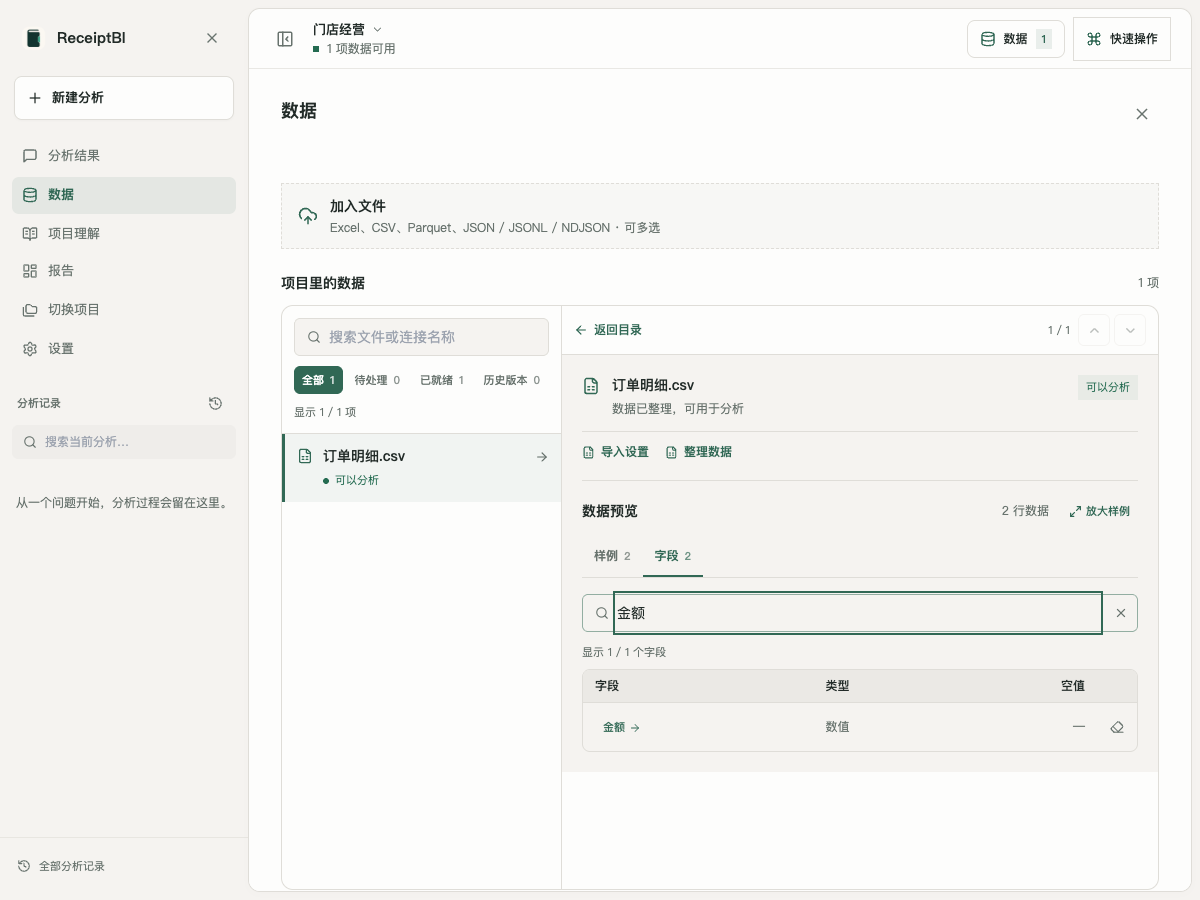
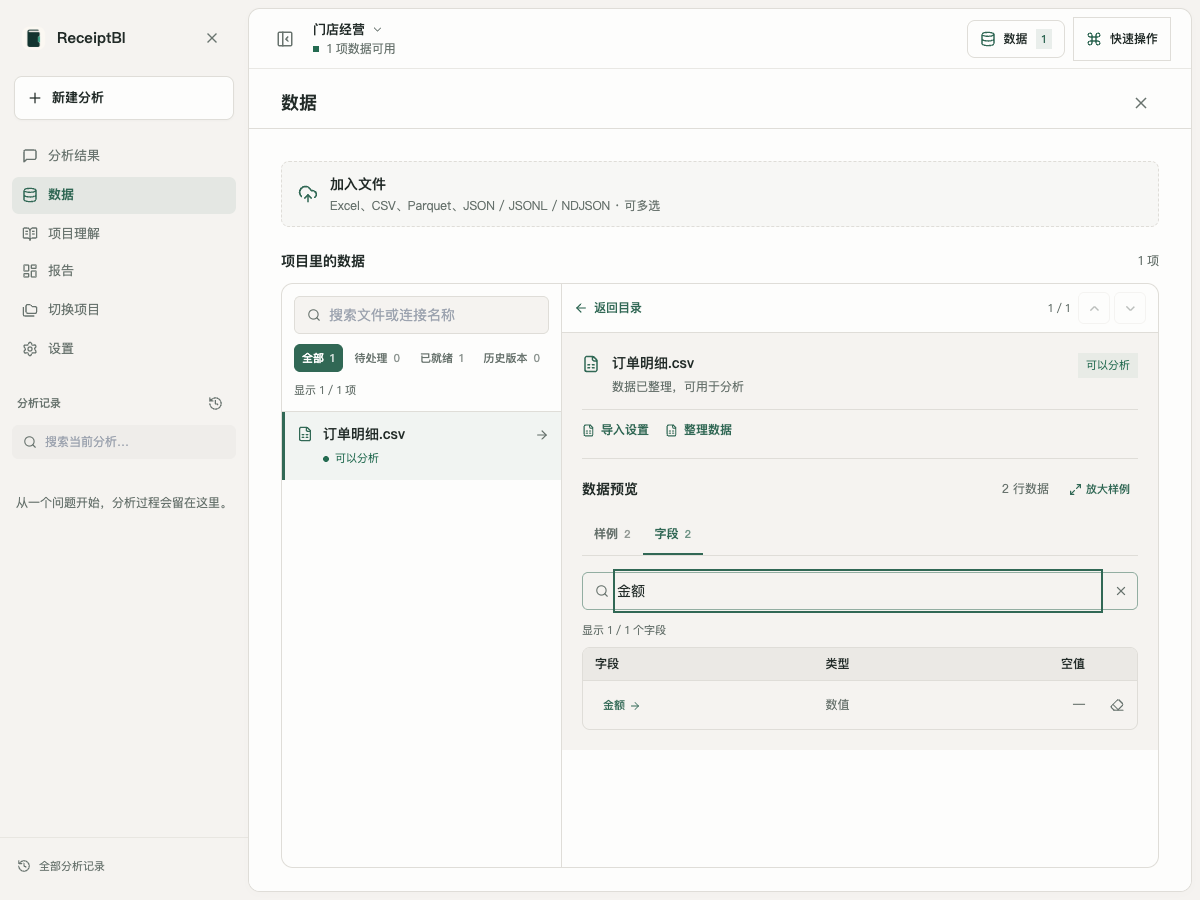
refactor(web): unify desktop data workspace shell

diff --git a/apps/web/src/components/chat/DataWorkspacePanel.tsx b/apps/web/src/components/chat/DataWorkspacePanel.tsx
@@ -1,6 +1,8 @@
 "use client";
 
-import { useRef, useState } from "react";
+import { useId, useRef, useState } from "react";
+import { Button } from "@/components/ui/button";
+import { TabList } from "@/components/ui/TabList";
 import { useLocale, useTranslations } from "next-intl";
 import Link from "next/link";
 import {
@@ -33,6 +35,7 @@ import { cn } from "@/lib/utils";
 import { VisualCleaningEditor } from "./VisualCleaningEditor";
 
 interface DataWorkspacePanelProps {
+  embedded?: boolean;
   open: boolean;
   onClose: () => void;
   onConfigureConnection: () => void;
@@ -99,6 +102,7 @@ export function getPendingUnderstandingCount(knowledge: SemanticEntry[]): number
 }
 
 export function DataWorkspacePanel({
+  embedded = false,
   open,
   onClose,
   onConfigureConnection,
@@ -108,6 +112,7 @@ export function DataWorkspacePanel({
   view,
   onViewChange,
 }: DataWorkspacePanelProps) {
+  const tabsId = useId();
   const locale = useLocale();
   const t = useTranslations("dataWorkspace");
   const fieldWordsRaw = t("fieldWords").split(",").map((s) => s.trim());
@@ -444,7 +449,7 @@ export function DataWorkspacePanel({
         className="border border-border bg-background/70 p-3"
         aria-label={t("understandingMapAria")}
       >
-        <div className="grid grid-cols-1 gap-2 sm:grid-cols-2">
+        <div className="grid grid-cols-2 gap-2">
           {sources.map((source) => (
             <div
               key={source.id}
@@ -667,65 +672,38 @@ export function DataWorkspacePanel({
     <>
     <aside
       className={cn(
-        "fixed inset-0 z-40 h-full w-full overflow-hidden border-l border-border bg-card shadow-2xl transition-transform duration-200 md:inset-y-0 md:left-auto md:right-0 md:w-[540px] md:max-w-[calc(100vw-2rem)]",
-        open ? "translate-x-0" : "pointer-events-none translate-x-full border-l-0"
+        embedded
+          ? "workbench-data-panel relative min-h-0 flex-1 overflow-hidden bg-card"
+          : "fixed inset-y-0 right-0 z-40 h-full w-[900px] overflow-hidden border-l border-border bg-card shadow-2xl transition-transform duration-200",
+        embedded ? (!open && "hidden") : open ? "translate-x-0" : "pointer-events-none translate-x-full border-l-0"
       )}
       aria-hidden={!open}
       inert={!open}
     >
       <div className="flex h-full w-full min-w-0 flex-col">
-        <div className="flex items-start justify-between px-5 py-5">
+        <div className="flex h-[60px] shrink-0 items-center justify-between border-b border-border px-5">
           <div>
             <h2 className="text-lg font-semibold text-foreground">
               {activeView === "sources" ? t("panelTitleSources") : t("panelTitleUnderstanding")}
             </h2>
           </div>
-          <button
+          <Button variant="ghost" size="icon"
             onClick={onClose}
-            className="rounded-lg p-2 text-muted-foreground hover:bg-muted hover:text-foreground"
             aria-label={t("closeWorkspaceAria")}
           >
             <X size={18} />
-          </button>
+          </Button>
         </div>
 
-        <div className="grid grid-cols-2 border-y border-border px-5" role="tablist">
-          <button
-            type="button"
-            role="tab"
-            aria-selected={activeView === "sources"}
-            onClick={() => changeView("sources")}
-            className={cn(
-              "border-b-2 px-1 py-3 text-sm font-medium transition-colors",
-              activeView === "sources"
-                ? "border-primary text-primary"
-                : "border-transparent text-muted-foreground hover:text-foreground"
-            )}
-          >
-            {t("dataSourcesTab")}
-          </button>
-          <button
-            type="button"
-            role="tab"
-            aria-selected={activeView === "understanding"}
-            onClick={() => changeView("understanding")}
-            className={cn(
-              "border-b-2 px-1 py-3 text-sm font-medium transition-colors",
-              activeView === "understanding"
-                ? "border-primary text-primary"
-                : "border-transparent text-muted-foreground hover:text-foreground"
-            )}
-          >
-            {t("understandingTab")}
-            {pendingKnowledgeCount > 0 && (
-              <span className="ml-1.5 bg-warning/15 px-1.5 py-0.5 text-[10px] text-warning">
-                {pendingKnowledgeCount}
-              </span>
-            )}
-          </button>
-        </div>
+        {!embedded && <TabList id={tabsId} label={t("panelTitleSources")} value={activeView} onChange={changeView}
+          className="px-5" items={[
+            { value: "sources", label: t("dataSourcesTab") },
+            { value: "understanding", label: <>{t("understandingTab")}{pendingKnowledgeCount > 0 &&
+              <span className="ml-1.5 rounded-md bg-warning/15 px-1.5 py-0.5 text-[10px] text-warning">{pendingKnowledgeCount}</span>}</> },
+          ]} />}
 
-        <div className="flex-1 space-y-6 overflow-y-auto px-5 py-5">
+        <div id={tabsId + "-panel"} role={embedded ? undefined : "tabpanel"}
+          aria-labelledby={embedded ? undefined : tabsId + "-" + activeView} className="min-h-0 flex-1 space-y-6 overflow-y-auto px-5 py-5">
           {activeView === "sources" ? (
             <>
           <input

diff --git a/apps/web/tests/data-workspace-panel.test.tsx b/apps/web/tests/data-workspace-panel.test.tsx
@@ -151,7 +151,7 @@ describe("DataWorkspacePanel project understanding", () => {
   });
 
 
-  it("uses one fixed overlay drawer width on desktop and full width on mobile", () => {
+  it("keeps a fixed desktop workspace while switching keyboard-accessible views", () => {
     const { container } = render(
       <NextIntlClientProvider locale="zh" messages={messages}>
         <DataWorkspacePanel
@@ -164,15 +164,19 @@ describe("DataWorkspacePanel project understanding", () => {
     );
 
     const panel = container.querySelector("aside");
-    expect(panel).toHaveClass("fixed", "inset-0", "w-full", "md:w-[540px]");
-    expect(panel).not.toHaveClass("md:relative", "md:w-[370px]", "md:w-[640px]");
+    expect(panel).toHaveClass("fixed", "inset-y-0", "right-0", "w-[900px]");
     expect(screen.queryByText("当前上下文")).not.toBeInTheDocument();
     expect(screen.queryByText("随时加入或替换；原件不会被修改。")).not.toBeInTheDocument();
     expect(screen.getByText("暂无数据")).toBeInTheDocument();
 
-    fireEvent.click(screen.getByRole("tab", { name: /项目理解/ }));
-    expect(panel).toHaveClass("md:w-[540px]");
-    expect(panel).not.toHaveClass("md:w-[640px]");
+    const sources = screen.getByRole("tab", { name: /数据来源/ });
+    const understanding = screen.getByRole("tab", { name: /项目理解/ });
+    sources.focus();
+    fireEvent.keyDown(sources, { key: "ArrowRight" });
+    expect(understanding).toHaveFocus();
+    expect(understanding).toHaveAttribute("aria-selected", "true");
+    expect(screen.getByRole("tabpanel")).toHaveAttribute("aria-labelledby", understanding.id);
+    expect(panel).toHaveClass("w-[900px]");
   });
 
   it("shows every source without inventing relationship connectors", () => {

diff --git a/docs/DESKTOP_UI.md b/docs/DESKTOP_UI.md
@@ -13,50 +13,50 @@
 - 已加载内容的水平页签复用 `TabList`，按 [WAI-ARIA Tabs](https://www.w3.org/WAI/ARIA/apg/patterns/tabs/) 自动激活，统一方向键、Home/End 和单一 Tab 停靠点；来源预览与文本替换已接入。
 - 页面入口、列表操作和编辑动作使用同一控件层；避免页面各自维护不同颜色、直角按钮和触控尺寸。表单的提交、错误及草稿合同不因外观修改而改变。
 
-## 实现与剩余范围
+## 已归并与待完成
 
-基础按钮、搜索、桌面导航、配置编辑面板及圆角变量已收拢。当前工作区的工作台和设置页已移除移动分支，设置的目录与 420px 编辑区固定并排；这些页面仍与之前的大批未归并改动交织，不能把局部组件提交视为全部页面完成。
+| 模块 | 已归并的桌面结构 | 尚未完成 |
+| --- | --- | --- |
+| 共享控件 | Button、SearchField、TabList、确认弹窗、主题与圆角变量 | 继续替换其他页面的重复控件 |
+| 工作台与设置 | 导航和配置编辑面板；工作区已有 248px 目录与 420px 编辑区 | 完整页面依赖、草稿会话及离开链路 |
+| 关于 | 统一标题栏、产品与版本双栏、三列项目链接 | 工作区里的版本检查行为 |
+| 项目理解 | 320px 详情区；工作区已改为 200px 目录与单一表格 | 页面历史、选择及保存恢复的整体归并 |
+| 数据来源 | 280px 目录、来源版本解析、字段与样例预览 | 上传、文件准备、来源替换及工作区完整行为 |
+| 数据工作区外框 | 60px 标题栏、共享页签；嵌入模式或 900px 桌面侧面板 | 外框提交不包含其余工作区新功能 |
+| 数据窗口 | 表格与 360px 记录详情并排；筛选、排序、列选择、精确值与导出 | 报告和聊天入口的整体归并 |
+| 整理编辑器 | 320px 操作目录、草稿历史、步骤选择、规则解析、预览与确认；样例和文本替换固定双栏 | 真实文件处理、后端文本替换及安装包联调 |
 
-关于页已改为固定桌面布局：统一标题栏、产品与版本双栏、三列项目链接。版本检查的行为改动独立于视觉提交，仍在工作区中待归并。
+### 行为边界
 
-项目理解的当前工作区已收敛为 200px 范围目录、单一表格和 320px 详情区；删除重复手机卡片、来源下拉和详情宽度监听。共享搜索、按钮与页面外框已接入。详情组件独立提交；完整页面仍与历史、选择和保存恢复的既有改动交织，待继续归并。
+- 数据窗口保留表格、搜索、筛选和分页，不以详情替代表格。表格模型复用已安装的 Decimal 和 Papa Parse。
+- 来源预览只使用当前来源保留的快照，不从独立列样例拼造记录；字段名和精确值不改写。
+- 整理前后行号是各自样例位置，不假设同一记录。字段消失或切换来源时不恢复旧选列。
+- 整理的迟到预览不能恢复已关闭会话；应用期间不能重复提交。项目存储只归并整理请求归属，其他项目操作仍待整理。
+- 退出确认初始聚焦继续编辑，Escape 返回草稿；确认框固定 460px，普通工作面板不冒充模态。
 
-数据来源目录已改为固定 280px 列表与详情并排，删除隐藏列表的容器断点和尺寸监听。样式由 `SourceDirectory.module.css` 单独维护，搜索与状态筛选复用共享控件；来源版本往返和实际准备操作保持原有语义。目录及其状态、版本解析独立归并，外围数据工作区仍待整体整理。
+## 验证证据
 
-展开数据表已收拢为独立模块：表格、搜索、筛选和分页始终保留，记录详情固定在右侧 360px；删除手机详情替换表格的分支和焦点尺寸监听。列设置、排序、筛选及记录选择不再使用手机断点。表格模型、精确数值、CSV 与剪贴板逻辑随模块归并，复用已有 Decimal 和 Papa Parse。来源预览仍在工作区待归并，不能将独立数据窗口视为所有入口完成。
+检查使用现有已安装依赖。定向测试与隔离 Chrome 预览不是全量构建、全新安装或真实文件处理的交付证明；预览使用虚构数据，不调用模型、不写真实配置或应用整理。
 
-样例查看器已独立归并：整理前后固定并排，共享字段选择器、搜索和按钮，表格与完整值面板采用统一圆角。字段定位不改变原始标识，也不假设两侧行号代表同一记录。暂存源码的 4 个定向用例覆盖翻列、精确值、完整值焦点及快照切换，22 个模块的限定类型检查无错误。Chrome 在 1200px 下验证两表同高并排、各宽 535px，无页面脚本错误；[样例对比预览](images/zh/desktop-ui-cleaning-samples.png)使用浏览器拦截的虚构响应，没有应用整理或真实写入。
+| 范围 | 已检查内容 | 视觉证据 |
+| --- | --- | --- |
+| 工作台、设置 | 导航折叠、栏目往返、编辑保留、并排边界、主题；入口为 settings-editor、analysis-workbench、workbench-pane-focus、settings-page | 仍需完整页面验收 |
+| 数据工作区外框 | 暂存源码 3 个定向用例及类型检查通过；Chrome 1200px 验证 60px 标题栏、字段搜索与放大样例，无脚本错误或写请求 | 与下行字段搜索共用预览 |
+| 数据目录与预览 | 1200/1440px 下列表可见、12px 外框、无页面横向溢出；筛选、来源切换、字段定位、页签键盘、样例失效 | [目录](images/zh/desktop-ui-sources.png)、[字段搜索](images/zh/desktop-ui-source-fields.png) |
+| 数据窗口 | 8 个定向核心用例；限定类型检查；1200/1440px 下详情并排，1200px 菜单 8px、无溢出 | [列菜单](images/zh/desktop-ui-data-columns.png)、[筛选](images/zh/desktop-ui-data-filters.png) |
+| 整理 | 9 个主流程定向用例及子组件检查；限定类型检查；1200px 下编辑、预览、返回、退出确认和草稿保留 | [编辑器](images/zh/desktop-ui-cleaning-editor.png)、[样例](images/zh/desktop-ui-cleaning-samples.png)、[字段对照](images/zh/desktop-ui-cleaning-impact.png)、[确认](images/zh/desktop-ui-cleaning-discard.png) |
+| 文本替换 | 样例转草稿、空文本、冲突、确认；原值和目标值同一行，未写真实数据 | [样例选择](images/zh/desktop-ui-text-samples.png)、[逐项编辑](images/zh/desktop-ui-text-editor.png) |
+| 关于、项目理解 | 1200/1440px 桌面布局与无横向溢出；理解详情 Escape 返回当前行；截图含待归并行为 | [关于浅色](images/zh/desktop-ui-about.png)、[深色](images/zh/desktop-ui-about-dark.png)、[项目理解](images/zh/desktop-ui-understanding.png) |
 
-文本替换编辑器与精确映射模型独立归并：样例候选和目标固定双栏，逐项编辑固定原值、目标值和删除操作同一行，动作复用共享按钮。4 个工作区用例覆盖样例转草稿、空文本、冲突处理及主编辑器预览确认；暂存模块的限定类型检查无错误。Chrome 在 1200px 验证[样例选择](images/zh/desktop-ui-text-samples.png)与[逐项编辑](images/zh/desktop-ui-text-editor.png)，没有写请求。后端文本替换及真实文件处理不属于这组前端预览的验证范围。
+## 后续验收
 
-整理变化预览与退出确认已独立归并。字段查询和选列由同一预览状态管理；字段消失或切换来源时不恢复旧选择。退出确认复用桌面按钮，保持原有模态及焦点返回合同。4 个工作区定向用例覆盖精确统计、预览切换、Escape 和应用期间保护；暂存的 15 个模块类型检查无错误。Chrome 1200px 下验证[字段对照](images/zh/desktop-ui-cleaning-impact.png)及[退出确认](images/zh/desktop-ui-cleaning-discard.png)：确认框 460px、12px 圆角、初始聚焦继续编辑，Escape 后保留草稿；虚构预览未写入真实数据。
+1. 归并上述待完成模块，不以独立控件提交代替完整页面。
+2. 覆盖报告阅读与编辑、历史和项目页面，统一标题栏、工具栏、字段、菜单、空态和错误态。
+3. 复核全部弹窗、表格的圆角、间距、密度和键盘行为，清除剩余手机样式。
+4. 核对桌面窗口约束、全站导航和真实安装包；所有要求都有对应证据后才能认定全站完成。
 
-整理主编辑器已整体归并：固定 320px 操作目录与正文并排，所有动作复用共享按钮；草稿历史、跳过步骤、保存规则解析、预览与应用请求归属随模块提交。迟到预览不能恢复被关闭的会话，应用期间不能重复提交。暂存源码的 9 个定向用例通过，37 个加载模块检查无类型错误。Chrome 在 1200px 下验证[主编辑器](images/zh/desktop-ui-cleaning-editor.png)、预览返回、退出确认和草稿保留；仅使用虚构数据，不执行真实应用。项目存储只归并整理相关段落，上传、来源准备和项目管理仍属后续范围。
+## 参考
 
-来源预览已独立归并：字段目录和样例共享页签与按钮，字段搜索关联实际表格，放大样例保留来源快照。4 个相关用例通过，焦点实现简化后重查字段定位通过，暂存依赖类型检查无错误。Chrome 在 1200px 下验证[字段搜索](images/zh/desktop-ui-source-fields.png)、Escape 清除、页签方向键和放大样例，无脚本错误及写请求。外围数据工作区已移除手机全屏与摘要断点，仍与上传、准备和来源替换改动交织，尚未整体归并。
-
-后续必须覆盖：
-
-1. 归并工作台与设置的完整页面依赖、草稿会话及离开链路。
-2. 数据浏览、理解与整理页面的桌面布局，移除各自残留的移动切换和重复控件。
-3. 报告阅读、报告编辑、历史、项目与关于页面，统一标题栏、工具栏、字段、菜单、空态和错误态。
-4. 校准全部弹窗及表格的圆角、间距、密度和键盘行为，移除硬编码尺寸与过时手机样式。
-5. 检查桌面窗口约束、真实安装包与全站导航；局部源码和预览通过不代表已安装应用交付。
-
-## 参考与验证
-
-参考 Twenty 的 [NavigationDrawer 源码](https://github.com/twentyhq/twenty/blob/main/packages/twenty-front/src/modules/ui/navigation/navigation-drawer/components/NavigationDrawer.tsx)中导航、内容和主题变量的职责划分。只采用桌面分工，不采用其手机分支或依赖；没有复制第三方源码。
-
-数据来源采用 [PatternFly Drawer](https://www.patternfly.org/components/drawer/) 的 inline 主从内容分工，不采用覆盖式或断点切换，也不新增依赖。
-
-退出确认采用 [WAI-ARIA Alert Dialog](https://www.w3.org/WAI/ARIA/apg/patterns/alertdialog/) 的标题、描述和真实模态语义，普通工作面板不使用 `alertdialog`。
-
-数据目录的暂存源码检查覆盖键盘浏览、筛选期间保留详情、来源删除、语言切换和编辑 Escape。Chrome 在 1200px、1440px 验证列表始终可见、双栏布局、12px 外框且无页面横向溢出；[当前工作区预览](images/zh/desktop-ui-sources.png)使用虚构来源，不作为真实文件准备或后端写入的验证。
-
-数据窗口核心检查独立于报告和聊天入口：暂存源码的 8 个定向用例覆盖桌面面板共存、列重排、多列排序、筛选、IME Escape、剪贴板竞态、完整快照查询及重新打开；26 个模块的限定类型检查无错误。Chrome 使用虚构来源验证 1200px、1440px 下表格与 360px 详情并排，1200px 下的[列菜单](images/zh/desktop-ui-data-columns.png)和[筛选面板](images/zh/desktop-ui-data-filters.png)无溢出，菜单圆角为 8px，无控制台错误及写请求。来源预览与整理窗口另有 7 个工作区用例；尚未验证真实文件、完整构建或安装包。检查使用当前已安装依赖，不代表旧版本依赖的全新安装验证。
-
-定向入口为 `settings-editor`、`analysis-workbench`、`workbench-pane-focus`、`settings-page` 和现有 `SearchField` 检查。浏览器使用隔离预览，只读虚构配置，检查桌面导航折叠、设置栏目往返、编辑保留、并排边界及主题。不进行手机验收，不调用真实模型或写入配置。
-
-关于页在 Chrome 的 1200px、1440px 窗口保持三列、无页面横向溢出；当前工作区的预览：[浅色](images/zh/desktop-ui-about.png)、[深色](images/zh/desktop-ui-about-dark.png)。截图含尚未归并的版本操作，不作为真实更新服务或安装包的验证。
-
-项目理解定向检查覆盖详情导航、忙碌边界、项目切换、取消草稿、批量勾选和已确认的历史恢复。Chrome 在 1200px、1440px 下验证三栏、无页面横向溢出和 Escape 返回当前行；使用虚构定义，无写请求。当前工作区预览：[桌面项目理解](images/zh/desktop-ui-understanding.png)。
+- [Twenty NavigationDrawer 源码](https://github.com/twentyhq/twenty/blob/main/packages/twenty-front/src/modules/ui/navigation/navigation-drawer/components/NavigationDrawer.tsx)：导航、内容和主题变量的职责划分。只采用桌面分工，没有复制源码或新增其依赖。
+- [PatternFly inline Drawer](https://www.patternfly.org/components/drawer/)：主从内容并排，不采用手机断点或覆盖式切换。
+- [WAI-ARIA Alert Dialog](https://www.w3.org/WAI/ARIA/apg/patterns/alertdialog/)：真实模态、标题、描述与确认操作。页签规则见上文。
